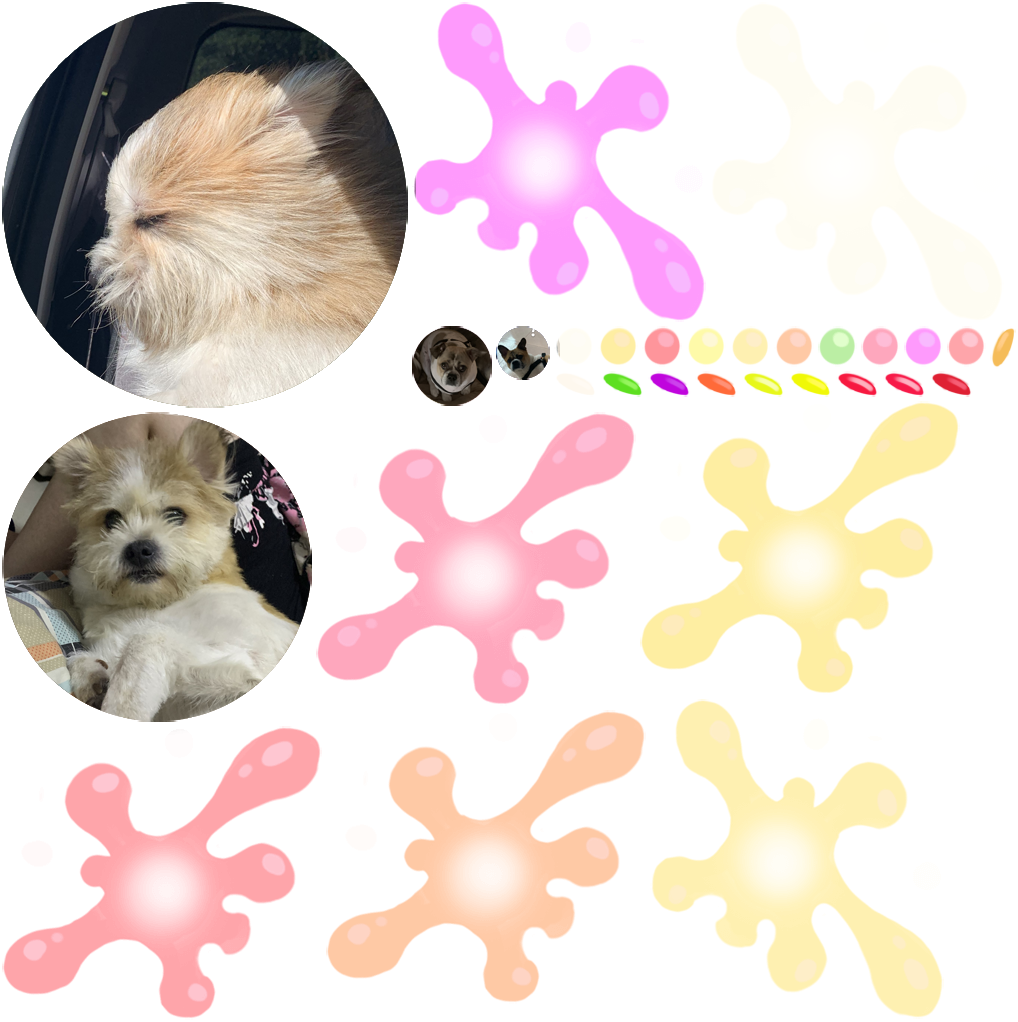
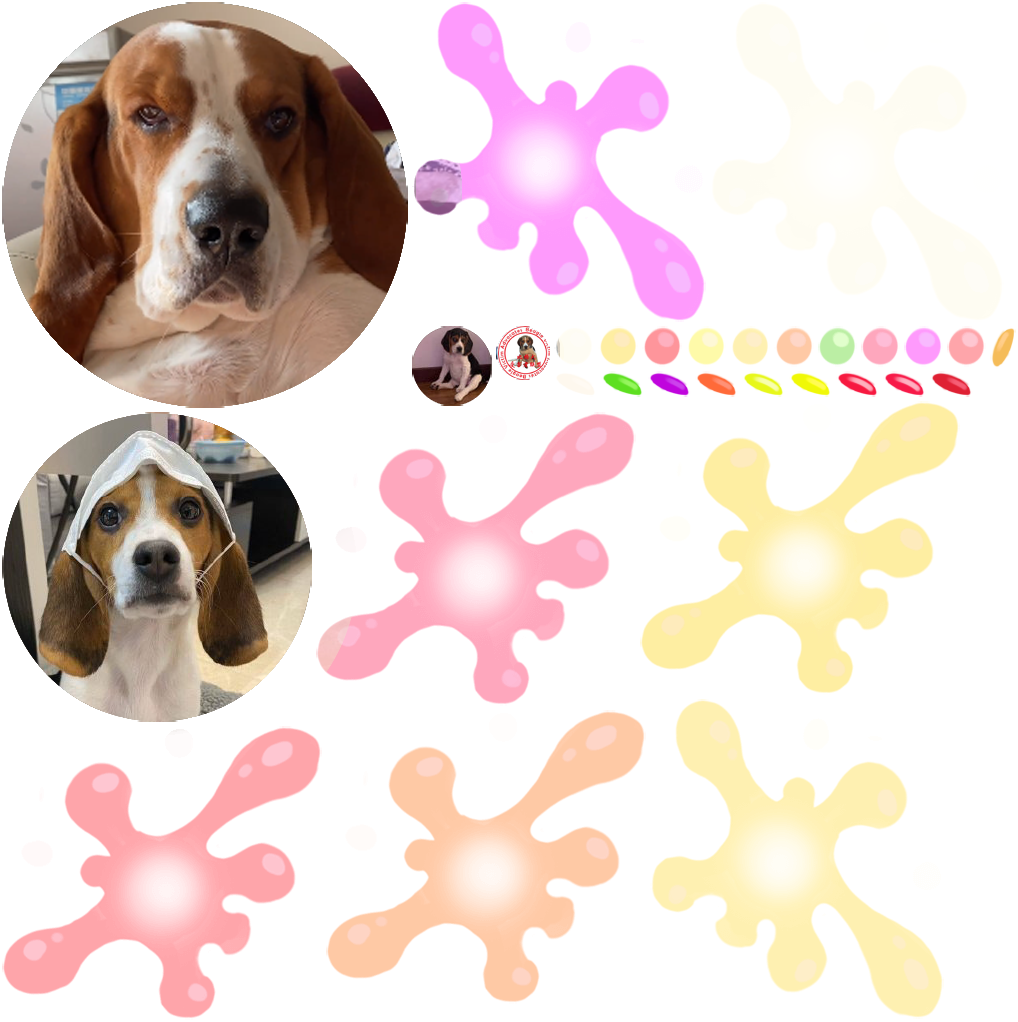
nitial commit

Changed region(s): [[0.0, 0.0, 0.4568, 0.728], [0.3959, 0.3033, 0.5481, 0.3943]]

diff --git a/index.html b/index.html
@@ -4,7 +4,7 @@
 <head>
     <meta charset="utf-8">
 
-    <title>合成桃桃子</title>
+    <title>合成比格犬</title>
 
     <!--http://www.html5rocks.com/en/mobile/mobifying/-->
     <meta name="viewport" content="width=device-width,user-scalable=no,initial-scale=1, minimum-scale=1,maximum-scale=1" />
@@ -109,7 +109,7 @@
             //        console.log("window.navigator.language",window.navigator.language);
 
             if (window.navigator.language == "zh-CN" || window.navigator.language == "zh-cn") {
-                document.title = "合成桃桃子";
+                document.title = "合成比格犬";
             } 
 
 
